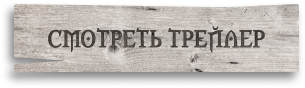
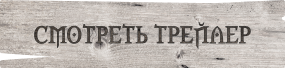
styling

diff --git a/css/present.css b/css/present.css
@@ -7,4 +7,26 @@
 	font-weight: 500;
 	font-size: 90px;
 	line-height: 120%;
+	margin-bottom: 8px;
+}
+
+.present__tagline {
+	width: 350px;
+	line-height: 130%;
+	margin-bottom: 54px;
+}
+
+.present__btn {
+	display: block;
+	width: 285px;
+	height: 68px;
+	background-image: url('../img/btn-trailer.png');
+	filter: drop-shadow(-4px 6px 10px rgba(10, 10, 10, 0.51));
+	border-radius: 2px;
+	background-position: center;
+	background-size: cover;
+}
+
+.present__hero {
+	margin-bottom: 30px;
 }

diff --git a/index.html b/index.html
@@ -39,8 +39,6 @@
 					всегда найдут друг друга
 				</p>
 				<a href="https://youtu.be/aTPPmHqMZOw" class="present__btn">
-					<!-- <img src="img/btn-trailer.png" alt="Кнопка для просмотра трейлера" class="present__btn-img"> -->
-					Смотреть трейлер
 				</a>
 			</div>
 

diff --git a/css/tabs.css b/css/tabs.css
@@ -1,0 +1,10 @@
+.tabs__control {
+	display: flex;
+	justify-content: space-between;
+	width: 285px;
+	background: rgba(0, 0, 0, 0.7);
+	padding: 13px 21px;
+	font-weight: 700;
+	line-height: 140%;
+	margin-left: auto;
+}

diff --git a/css/main.css b/css/main.css
@@ -4,3 +4,4 @@
 @import 'header.css';
 @import 'navigation.css';
 @import 'present.css';
+@import 'tabs.css';
